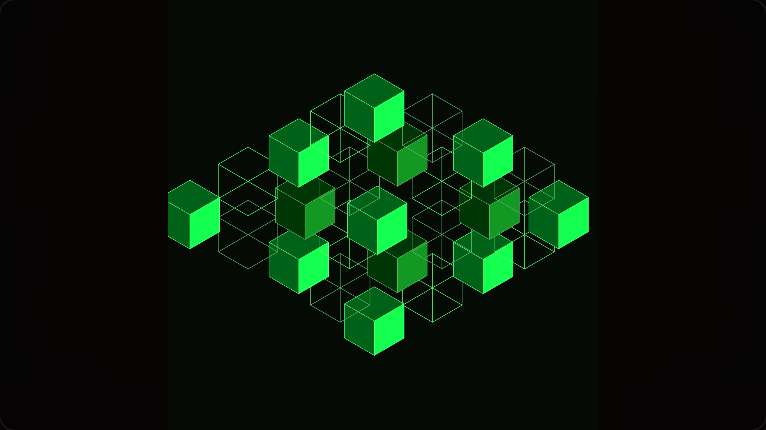
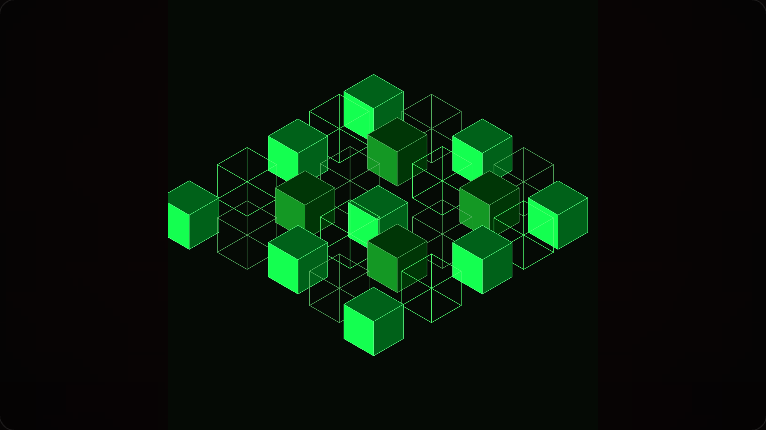
fix: Dancing Cubes 180-degree rotation broke depth occlusion
The 180-degree scene rotation added a canvas transform, but the
painter's-algorithm sort order and left/right lighting classification
were still computed for the original (unrotated) viewing angle. Since
a 180-degree flip is equivalent to viewing the structure from the
opposite corner, "near" and "far" swap - cubes that should be occluded
were painting on top, making the isometric stack read as incoherent.

- Reverse the depth sort so occlusion matches the rotated view
- Negate the light-side classification so shading stays on the correct
  on-screen side after the mirror

Changed region(s): [[0.2102, 0.2116, 0.7807, 0.8465], [0.6005, 0.2721, 0.6606, 0.3023]]

diff --git a/src/App.tsx b/src/App.tsx
@@ -4255,8 +4255,10 @@ export default function App() {
                     }
                 }
 
-                // Sort back to front
-                cubes.sort((a, b) => a.sortKey - b.sortKey);
+                // Sort back to front. The scene is painted through a 180-degree canvas
+                // rotation (viewed from the opposite corner), so what was "near" is now
+                // "far" -> reverse the painter's-algorithm order to keep occlusion correct.
+                cubes.sort((a, b) => b.sortKey - a.sortKey);
 
                 // Vertex local offsets for cube
                 const h = size / 2;
@@ -4386,8 +4388,10 @@ export default function App() {
                             const rny = norm.y;
                             const rnz = -norm.x * sinRot + norm.z * cosRot;
 
-                            // Relative horizontal offset from cube centroid on screen
-                            const relX = item.faceCenterX - cubeCenterX;
+                            // Relative horizontal offset from cube centroid on screen.
+                            // Negated because the whole scene is painted through a
+                            // 180-degree canvas rotation, which mirrors on-screen left/right.
+                            const relX = -(item.faceCenterX - cubeCenterX);
 
                             // Lighting classification:
                             // Upper face (rnz > 0.4) -> IN SHADOW (Medium-dark shadow)
